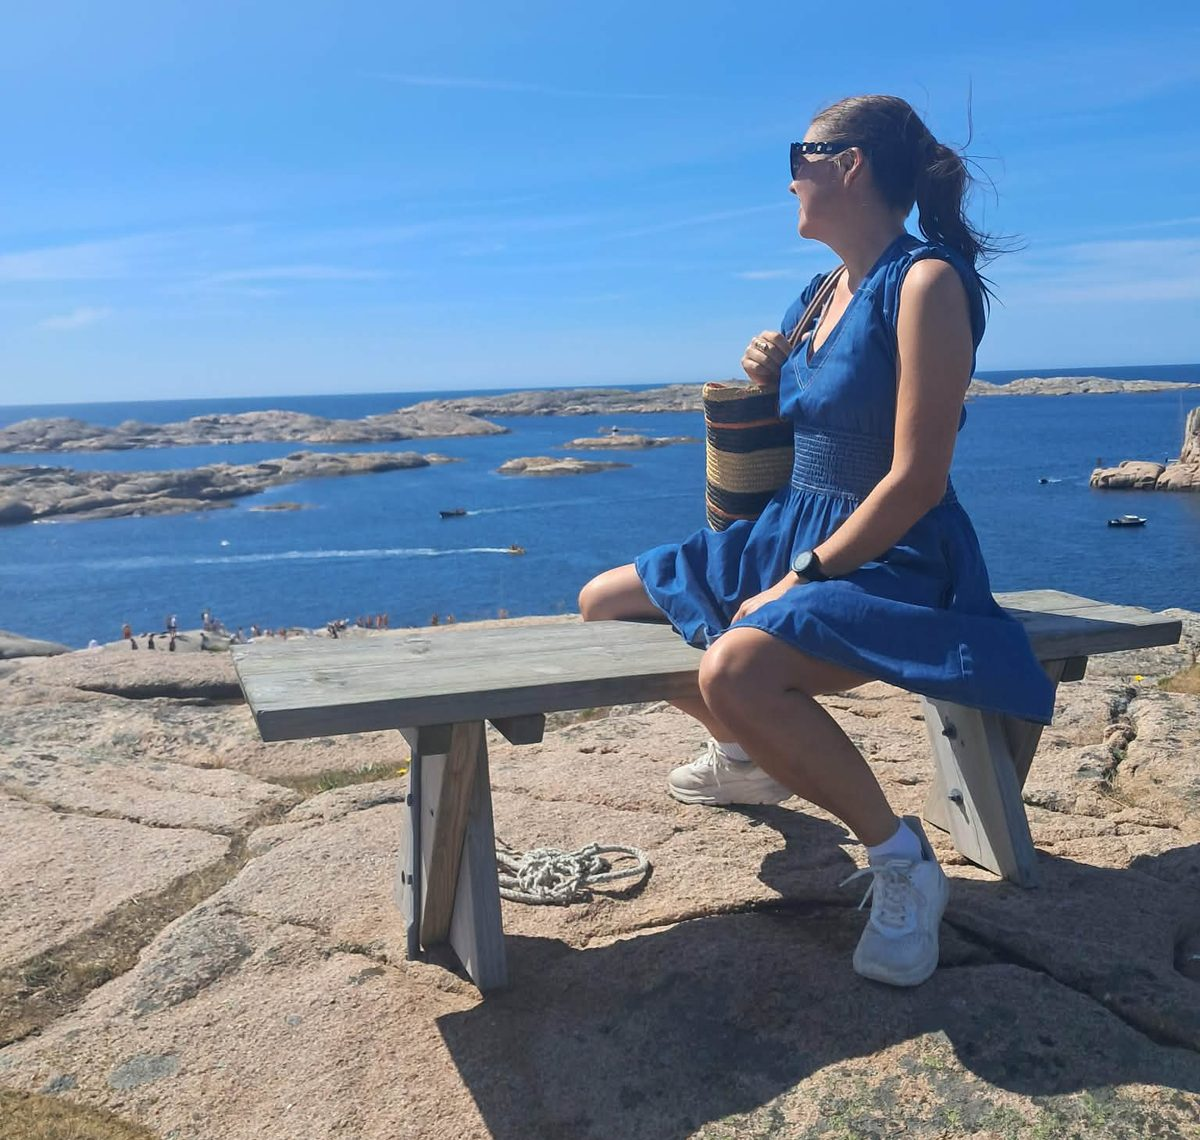
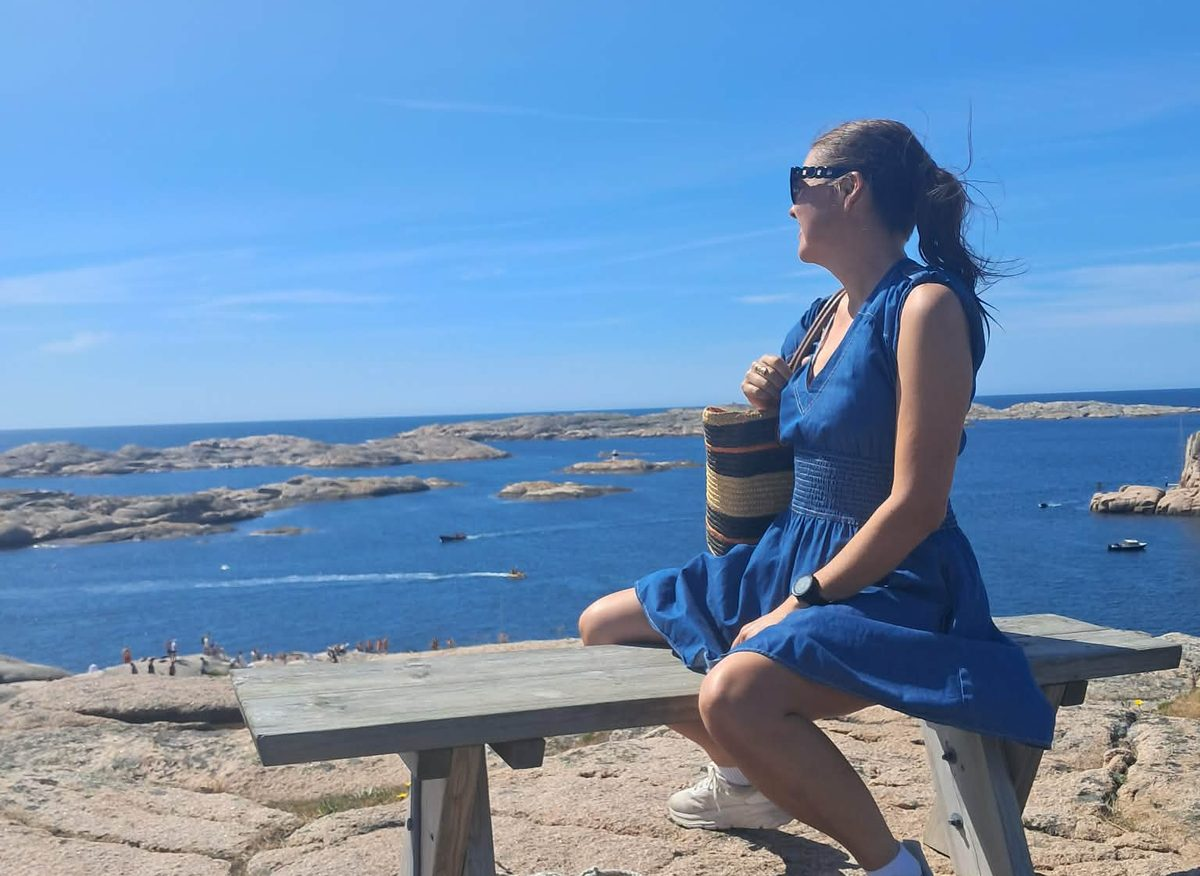
Havbildet: utsnitt som ønsket, ned til skoene
Claude-Session: https://claude.ai/code/session_01ErhCntgvDpKv2zuNJQHYQX

diff --git a/helseveiledning-12-uker.html b/helseveiledning-12-uker.html
@@ -623,7 +623,7 @@
     display: block;
     width: 100%;
     height: auto;
-    aspect-ratio: 20 / 19;
+    aspect-ratio: 1200 / 876;
     object-fit: cover;
     border-radius: 18px;
     margin: 1.75rem 0 0;
@@ -708,7 +708,7 @@
     </ul>
     <a class="cta-button" href="helsesjekk.html">Book en uforpliktende samtale <span aria-hidden="true">→</span></a>
     <p class="hero-note">Nye plasser fra januar.</p>
-    <img class="hero-photo" src="images/12uker-havet-2.jpg" width="1200" height="1140" alt="Silje Merete sitter på en benk på svaberg og ser utover havet">
+    <img class="hero-photo" src="images/12uker-havet-2.jpg" width="1200" height="876" alt="Silje Merete sitter på en benk på svaberg og ser utover havet">
   </div>
 </section>
 
